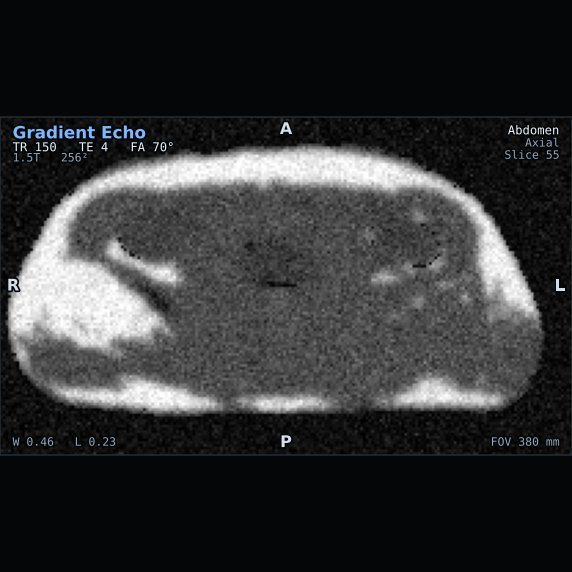
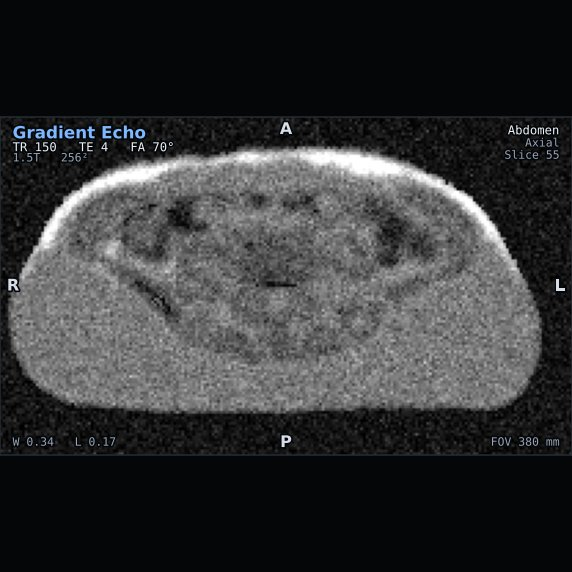
fix(course): regenerate pre-rendered course images with the upgraded engine
The committed lesson/quiz/figure images were last rendered before the
region-densification + voxel-model-v2 arc, so the course showed old-engine
renders (flat fills, no real texture, unstraightened atlases) beside a
simulator that now renders differently.

ensure_region in prerender_lessons.py now injects the region exactly the
way web_adapter.load_region does — atlas AND texture AND mixel, with
region_orient.straighten before the body L/R flip (straighten was missing
entirely: pre-rendered Spine/Knee steps used the tilted atlases). The two
sibling scripts import it instead of duplicating the old gappy copy.

Regenerated: 107 lesson step images (17 changed — exactly the texture,
fat-suppression, Dixon, artifact and body-anatomy lessons), 9 course-quiz
images (unchanged, brain-based), 6 course figures (chemical-shift changed:
marrow now displaces). Brain-only lessons byte-identical, confirming the
render path is otherwise stable.

Changed region(s): [[0.0, 0.2378, 0.951, 0.743], [0.0594, 0.743, 0.0892, 0.8024]]

diff --git a/scripts/prerender_lessons.py b/scripts/prerender_lessons.py
@@ -105,17 +105,35 @@ def step_payloads(lesson):
 
 
 def ensure_region(host, region):
-    """Load a region, injecting the real body atlas so build images match the browser."""
+    """Load a region, injecting the real body atlas + texture + mixel with the
+    SAME transforms web_adapter.load_region applies (straighten, then body L/R
+    flip), so build images match the browser render exactly."""
     if region == "Brain" or region in host._region_cache:
         host.load_region(region)
         return
     src = _BODY_SRC.get(region)
     if src and os.path.exists(os.path.join(ROOT, src)):
+        import region_orient
         vol = np.load(os.path.join(ROOT, src))
+        tex_p = os.path.join(ROOT, src.replace("atlas", "texture"))
+        mix_p = os.path.join(ROOT, src.replace("atlas", "mixel"))
+        tex = np.load(tex_p).astype(np.float32) if os.path.exists(tex_p) else None
+        mix = np.load(mix_p) if os.path.exists(mix_p) else None
+        vol = region_orient.straighten(region, vol, 0)
+        if tex is not None:
+            tex = region_orient.straighten(region, tex, 1)
+        if mix is not None:
+            mix = np.stack([region_orient.straighten(region, mix[i], 0)
+                            for i in range(mix.shape[0])])
         if region in web_adapter._BODY_REGIONS:
             vol = np.ascontiguousarray(np.flip(vol, axis=2))
+            if tex is not None:
+                tex = np.ascontiguousarray(np.flip(tex, axis=2))
+            if mix is not None:
+                mix = np.ascontiguousarray(np.flip(mix, axis=3))
         host._region_cache[region] = vol
-        host._region_tex_cache[region] = None
+        host._region_tex_cache[region] = tex
+        host._region_mixel_cache[region] = mix
         host._region_aux_cache[region] = (None, None)
     host.load_region(region)
 

diff --git a/scripts/render_course_figures.py b/scripts/render_course_figures.py
@@ -18,7 +18,6 @@ import io
 import os
 import sys
 
-import numpy as np
 from PIL import Image, ImageDraw, ImageFont
 
 ROOT = os.path.dirname(os.path.dirname(os.path.abspath(__file__)))
@@ -67,19 +66,7 @@ def _font(size, bold=False):
     return ImageFont.load_default()
 
 
-def ensure_region(host, region):
-    if region == "Brain" or region in host._region_cache:
-        host.load_region(region)
-        return
-    src = _BODY_SRC.get(region)
-    if src and os.path.exists(os.path.join(ROOT, src)):
-        vol = np.load(os.path.join(ROOT, src))
-        if region in web_adapter._BODY_REGIONS:
-            vol = np.ascontiguousarray(np.flip(vol, axis=2))
-        host._region_cache[region] = vol
-        host._region_tex_cache[region] = None
-        host._region_aux_cache[region] = (None, None)
-    host.load_region(region)
+from prerender_lessons import ensure_region  # noqa: E402  (full-fidelity: atlas+texture+mixel, straighten+flip)
 
 
 def render_tile(host, region, state):

diff --git a/scripts/prerender_course_quiz.py b/scripts/prerender_course_quiz.py
@@ -13,7 +13,6 @@ import json
 import os
 import sys
 
-import numpy as np
 from PIL import Image
 
 ROOT = os.path.dirname(os.path.dirname(os.path.abspath(__file__)))
@@ -36,19 +35,7 @@ _BODY_SRC = {
 }
 
 
-def ensure_region(host, region):
-    if region == "Brain" or region in host._region_cache:
-        host.load_region(region)
-        return
-    src = _BODY_SRC.get(region)
-    if src and os.path.exists(os.path.join(ROOT, src)):
-        vol = np.load(os.path.join(ROOT, src))
-        if region in web_adapter._BODY_REGIONS:
-            vol = np.ascontiguousarray(np.flip(vol, axis=2))
-        host._region_cache[region] = vol
-        host._region_tex_cache[region] = None
-        host._region_aux_cache[region] = (None, None)
-    host.load_region(region)
+from prerender_lessons import ensure_region  # noqa: E402  (full-fidelity: atlas+texture+mixel, straighten+flip)
 
 
 def main():
